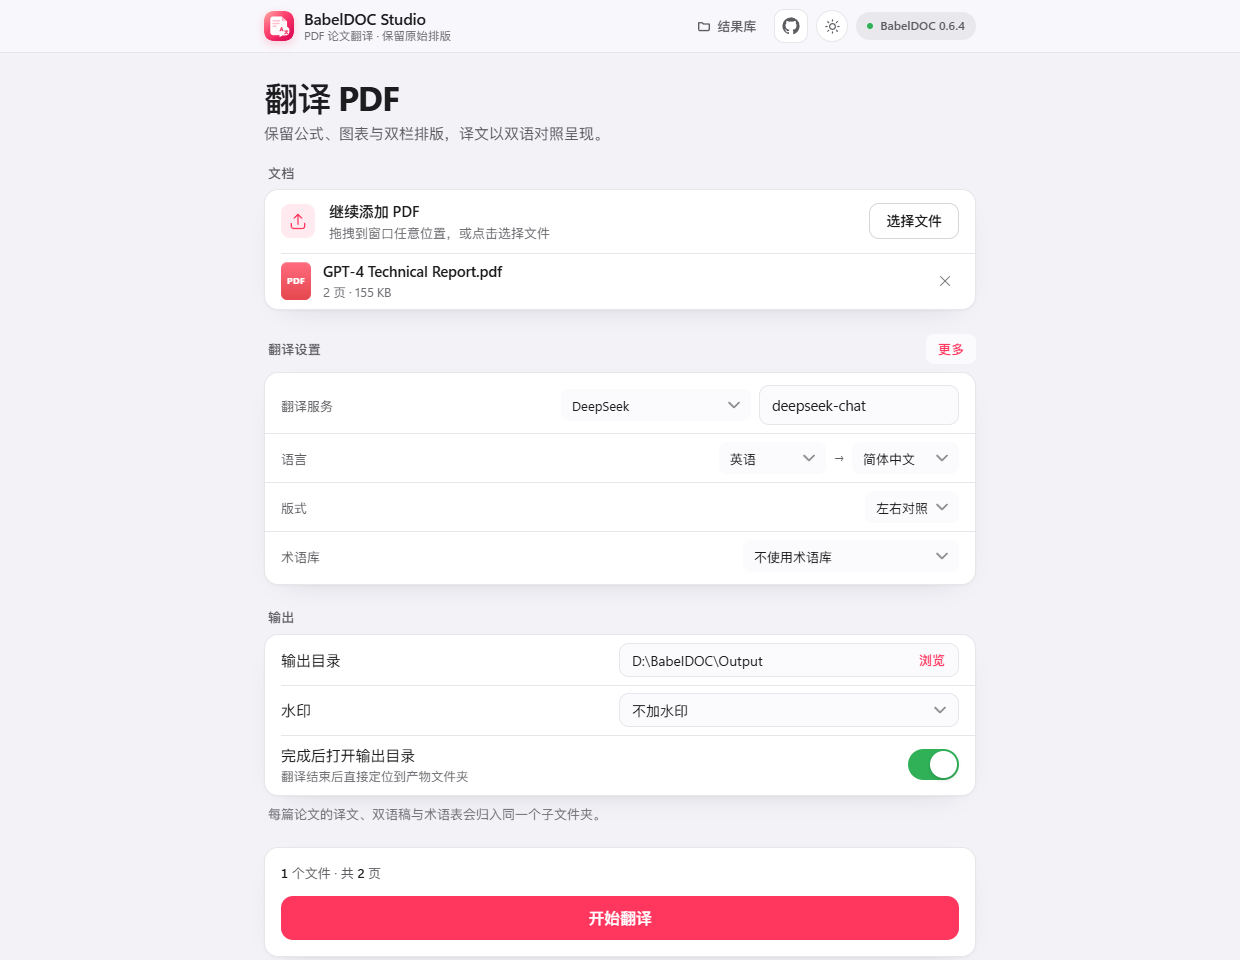
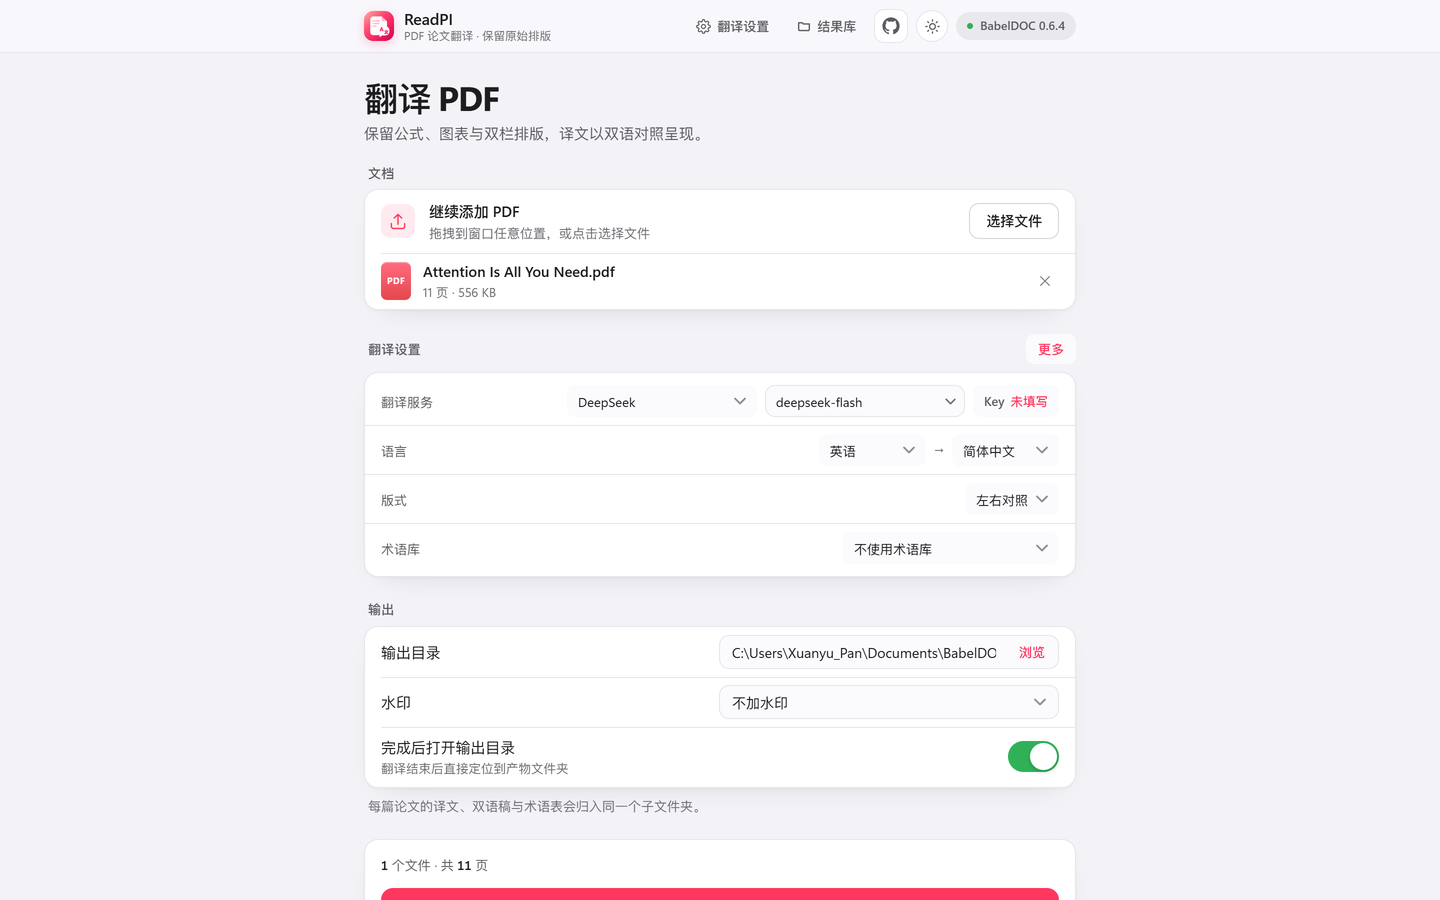
docs: 更新 README 插图与介绍，统一 ReadPI 品牌

diff --git a/web/index.html b/web/index.html
@@ -39,7 +39,7 @@
           </svg>
           结果库
         </a>
-        <a class="icon-btn topbar-github" href="https://github.com/PiDesign-314/Pi_BabelDOC-Studio"
+        <a class="icon-btn topbar-github" href="https://github.com/PiDesign-314/ReadPI"
            target="_blank" rel="noopener noreferrer" title="打开 GitHub 仓库" aria-label="打开 GitHub 仓库">
           <svg viewBox="0 0 24 24" width="18" height="18" fill="currentColor" aria-hidden="true">
             <path d="M12 .5C5.65.5.5 5.65.5 12c0 5.08 3.29 9.39 7.86 10.91.58.11.79-.25.79-.56 0-.28-.01-1.02-.02-2-3.2.7-3.88-1.54-3.88-1.54-.52-1.33-1.28-1.68-1.28-1.68-1.05-.72.08-.7.08-.7 1.16.08 1.77 1.19 1.77 1.19 1.03 1.77 2.7 1.26 3.36.96.1-.75.4-1.26.73-1.55-2.55-.29-5.23-1.28-5.23-5.7 0-1.26.45-2.29 1.19-3.1-.12-.29-.52-1.46.11-3.05 0 0 .97-.31 3.18 1.18a11.1 11.1 0 0 1 5.8 0c2.2-1.49 3.17-1.18 3.17-1.18.63 1.59.23 2.76.11 3.05.74.81 1.19 1.84 1.19 3.1 0 4.43-2.69 5.41-5.25 5.69.41.36.78 1.06.78 2.14 0 1.55-.01 2.8-.01 3.18 0 .31.21.68.8.56A11.51 11.51 0 0 0 23.5 12C23.5 5.65 18.35.5 12 .5Z"/>

diff --git a/tools/launcher/Launcher.cs b/tools/launcher/Launcher.cs
@@ -22,7 +22,7 @@ using System.Windows.Forms;
 [assembly: AssemblyDescription("BabelDOC Studio 启动器")]
 [assembly: AssemblyProduct("BabelDOC Studio")]
 [assembly: AssemblyCompany("PiDesign-314")]
-[assembly: AssemblyCopyright("https://github.com/PiDesign-314/Pi_BabelDOC-Studio")]
+[assembly: AssemblyCopyright("https://github.com/PiDesign-314/ReadPI")]
 [assembly: AssemblyVersion("1.0.1.0")]
 [assembly: AssemblyFileVersion("1.0.1.0")]
 

diff --git a/docs/ZOTERO-INTEGRATION.md b/docs/ZOTERO-INTEGRATION.md
@@ -23,7 +23,7 @@ Zotero 10 的文件夹读取使用 `Zotero.Collections.getByLibrary(libraryID, t
 前置条件：Zotero 7–10；ReadPI **1.8.1 或更新版本**。
 先启动一次新版应用，它会写出插件需要的
 `launch-info.json`，这样即使应用没开着也能被插件自动拉起。
-请从 [v1.8.1 发布页](https://github.com/PiDesign-314/Pi_BabelDOC-Studio/releases/tag/v1.8.1)
+请从 [v1.8.1 发布页](https://github.com/PiDesign-314/ReadPI/releases/tag/v1.8.1)
 下载新版 Windows 免安装包；关闭旧版进程后再启动新版，避免插件误连到旧服务。
 
 1. 打开 ReadPI →「翻译设置」→ 拉到最底部「Zotero 集成」；

diff --git a/docs/release-notes-header.md b/docs/release-notes-header.md
@@ -10,7 +10,7 @@
 >   只能在「设置 → 隐私和安全性 → Windows 安全中心 → 应用和浏览器控制 → 智能应用控制」里关闭它，
 >   或等待签名版。
 >
-> 完整排查步骤与签名进度：<https://github.com/PiDesign-314/Pi_BabelDOC-Studio/blob/main/docs/SMART-APP-CONTROL.md>
+> 完整排查步骤与签名进度：<https://github.com/PiDesign-314/ReadPI/blob/main/docs/SMART-APP-CONTROL.md>
 
 > [!NOTE]
 > **启动方式：未签名版请双击 `Start.bat`。** 包内也提供 `BabelDOC Studio.exe`，它和 `Start.bat`
